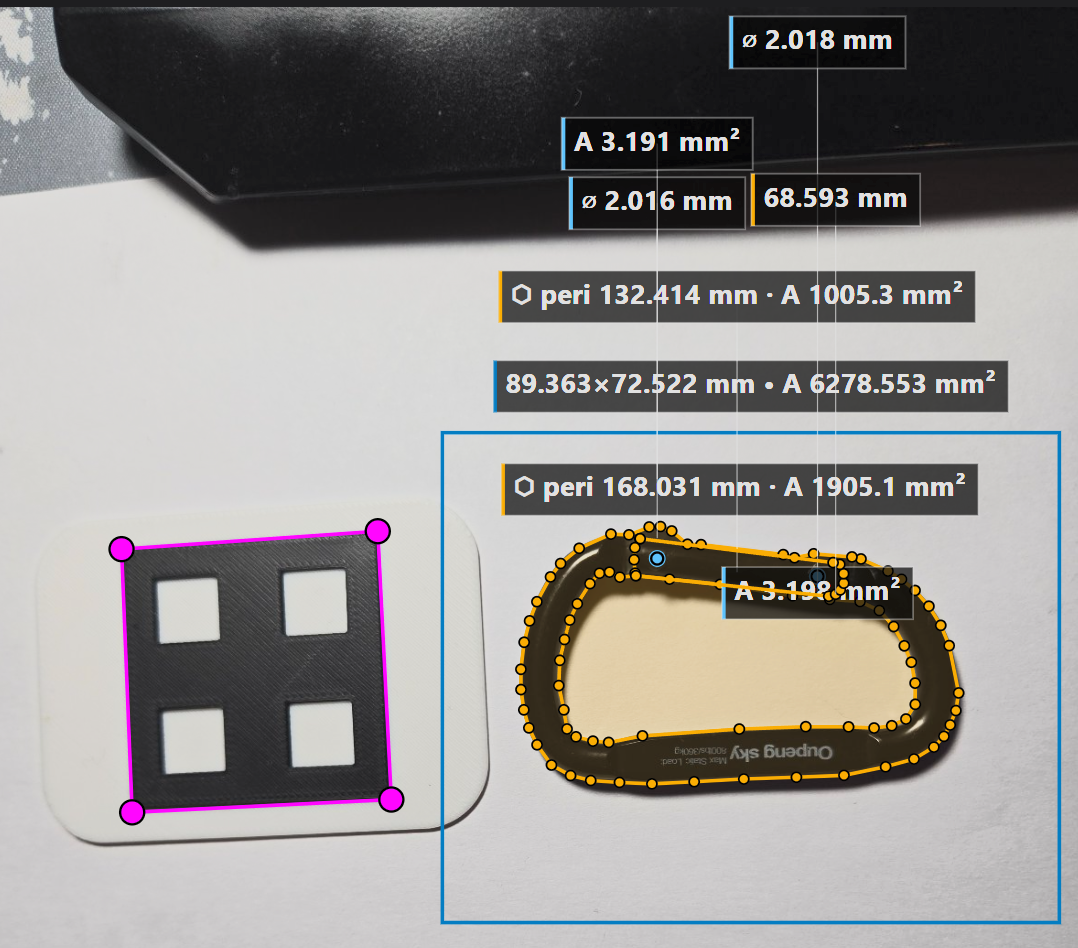
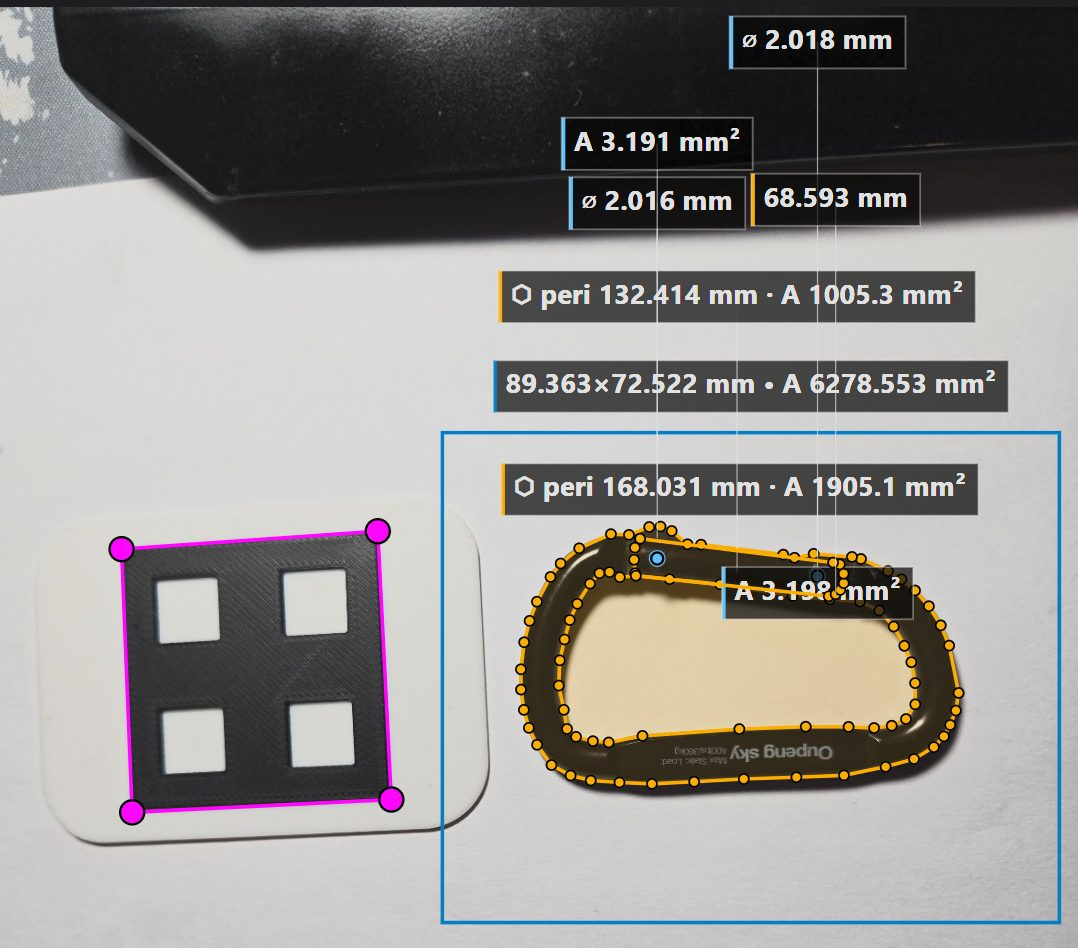
site: publish the carabiner capability demo
Un-hides the capability-demo section on the replacement-parts page now
that the three build photos are in site/parts/.

- Optimise the photos for a page built for mobile data: 1570 KB -> 474 KB
  total (scan 1038->115 KB, CAD 99->31 KB, comparison resized to 1074x1400
  and 432->328 KB). Correct the width/height attributes, which all claimed
  1200x900 and matched none of the three.
- Frame a photo tile solid rather than dashed once it holds an image; the
  dashed border was meant to read as "empty slot".
- Add .shot.whole for photos whose edges carry information. object-fit:cover
  centre-crops to 4:3, which was eating the top row of dimension callouts on
  the measurement overlay and one of the two parts in the printed comparison.
- Stack the shots to one column under 640px. Three across put each tile at
  94px on a phone -- smaller than the step badge sitting on it, and far too
  small to read a measurement. In one column the portrait shot also drops the
  4:3 tile so it renders at its own proportions instead of letterboxing.

Verified in Chromium at 1280 and 390px: all three images load, object-fit is
correct per tile, and horizontal overflow is 0 at both widths.

Claude-Session: https://claude.ai/code/session_01WJr8fX1aDhqnaZXEmiiRWe

diff --git a/site/replacement-parts.html b/site/replacement-parts.html
@@ -146,8 +146,23 @@
   .shot img { width:100%; height:100%; object-fit:cover; display:block; }
   /* The dashed border reads as "empty slot" — once a real photo is in, frame it solid. */
   .shot:has(img) { border-style:solid; border-color:var(--line); }
+  /* object-fit:cover centre-crops anything that is not 4:3, which is fine for a
+     render with empty margin but destructive when the edges carry the evidence —
+     a dimension callout at the top, or one of two parts in a stacked comparison.
+     Mark those `whole`: fit the entire frame and let it letterbox on the tile. */
+  .shot.whole img { object-fit:contain; background:var(--raised); }
   .shot .ph { font-family:var(--font-mono); font-size:10px; letter-spacing:0.06em; text-transform:uppercase; color:var(--faint); padding:6px; line-height:1.5; }
   .shot .step { position:absolute; top:6px; left:6px; font-family:var(--font-mono); font-size:9.5px; letter-spacing:0.08em; text-transform:uppercase; background:var(--ink); color:var(--paper); padding:3px 6px; border-radius:3px; opacity:.9; }
+  /* Three across on a phone puts each shot at ~94 px — smaller than the step
+     badge sitting on it, and far too small to read a measurement overlay. The
+     images ARE the argument in this section, so stack them full-width. With one
+     column there is no row to align against, so the portrait shot drops the 4:3
+     tile and uses its own proportions rather than letterboxing into a stripe. */
+  @media (max-width:640px){
+    .shots { grid-template-columns:1fr; }
+    .shot.whole { aspect-ratio:auto; }
+    .shot.whole img { height:auto; }
+  }
   .case h3 { font-size:17px; font-weight:680; margin:16px 0 5px; }
   .case p { margin:0; color:var(--slate); font-size:14.5px; }
 
@@ -478,17 +493,14 @@
   </section>
 
   <!-- ============ 7. Capability demo ============================================
-       WIRED to the carabiner demo shots. This section stays `hidden` until the
-       three image files actually exist in site/parts/ — a broken-image icon reads
-       worse than no section at all. To publish:
-         1. save the three photos into site/parts/ with exactly these names:
-              Carabiner-Scan.jpg              (CamScan measurement overlay)
-              Carabiner-Replica-CAD.jpg       (Fusion model)
-              Carabiner_3D_Print_Comparison.jpg (printed part beside the original)
-            ~1200 px wide, JPEG q80 — this page is built for mobile data.
-         2. delete the `hidden` attribute on the <section> below.
+       LIVE — backed by the three carabiner photos in site/parts/. Keep any new
+       photo ~1200 px on its long edge at JPEG q80: this page is built for mobile
+       data, and the three images here are ~470 KB in total.
+       Add class="shot whole" to any photo whose edges carry information — the
+       4:3 tile centre-crops by default, which would eat a dimension callout at
+       the top or one of the two parts in a stacked before/after.
        Copy the .case block to add further examples as real jobs come in. -->
-  <section id="work" hidden>
+  <section id="work">
     <div class="wrap">
       <div class="sec-head">
         <p class="eyebrow">Capability demo</p>
@@ -499,19 +511,19 @@
       <div class="cases">
         <div class="case">
           <div class="shots">
-            <div class="shot">
+            <div class="shot whole">
               <span class="step">1 · Measured</span>
-              <img src="/parts/Carabiner-Scan.jpg" loading="lazy" width="1200" height="900"
+              <img src="/parts/Carabiner-Scan.jpg" loading="lazy" width="1078" height="948"
                    alt="A carabiner photographed next to a printed calibration target, with the measuring tool overlaying outline dimensions in millimetres.">
             </div>
             <div class="shot">
               <span class="step">2 · Modelled</span>
-              <img src="/parts/Carabiner-Replica-CAD.jpg" loading="lazy" width="1200" height="900"
+              <img src="/parts/Carabiner-Replica-CAD.jpg" loading="lazy" width="926" height="599"
                    alt="The carabiner rebuilt as a 3D CAD model from the measured dimensions.">
             </div>
-            <div class="shot">
+            <div class="shot whole">
               <span class="step">3 · Printed</span>
-              <img src="/parts/Carabiner_3D_Print_Comparison.jpg" loading="lazy" width="1200" height="900"
+              <img src="/parts/Carabiner_3D_Print_Comparison.jpg" loading="lazy" width="1074" height="1400"
                    alt="The finished 3D-printed carabiner beside the original for comparison, matching in size and shape.">
             </div>
           </div>
